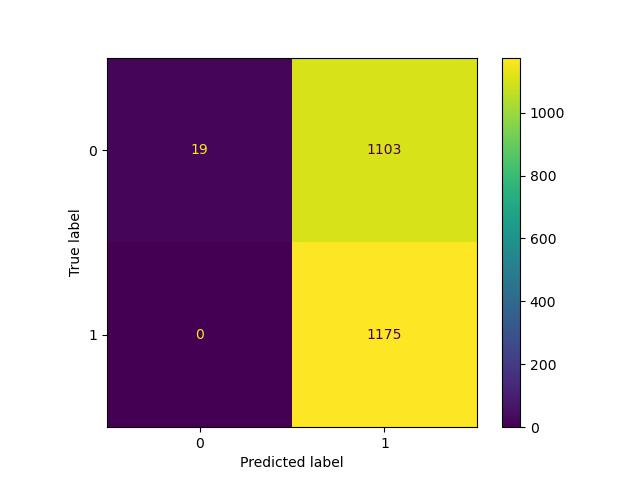
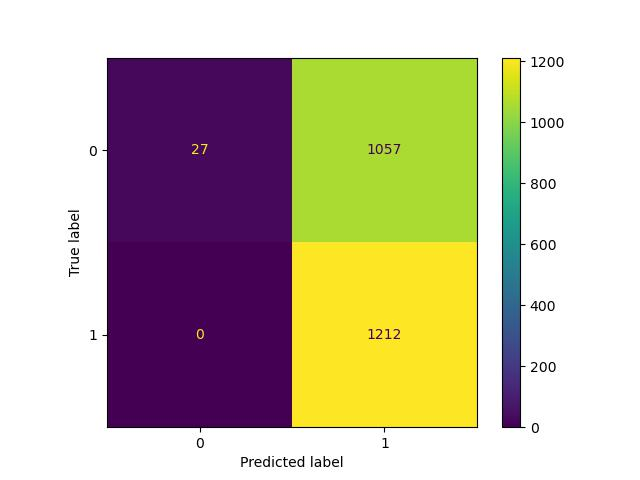
Trained

diff --git a/stock_utils/stock_utils.py b/stock_utils/stock_utils.py
@@ -94,12 +94,12 @@ def get_stock_price_realtime(ticker, start_date = None, end_date = None, n = 10)
     #only market cap > 10 billion will be considered
     if(pd_stock['marketCap'][0] > 1e10):
         stock = yf.Ticker(ticker)
-        today = datetime.now()
+        today = datetime.today().date()
         if start_date:
             hist = stock.history(start = start_date, end = end_date + timedelta(days = 1))
         else:
-            end = today
-            start = today - timedelta(days = 50)
+            end = today - timedelta(days = 1)
+            start = today - timedelta(days = 100)
             hist = stock.history(start = start, end = end  + timedelta(days = 1))
         
         ## Massage the data            
@@ -111,8 +111,8 @@ def get_stock_price_realtime(ticker, start_date = None, end_date = None, n = 10)
             'Dividends': 0, \
             'Stock Splits': 0
             }        
-        today_series = pd.Series(today_data, name=today)
-        hist.append(today_series)
+        today_series = pd.Series(today_data, name=pd.to_datetime(today))
+        hist = hist.append(today_series)
         hist['normalized_value'] = hist.apply(lambda x: normalixed_value(x['High'], x['Low'], x['Close']), axis = 1)
         hist['loc_min'] = hist.iloc[argrelextrema(hist['Close'].values, np.less_equal, order = n)[0]]['Close']
         hist['loc_max'] = hist.iloc[argrelextrema(hist['Close'].values, np.greater_equal, order =n)[0]]['Close']
@@ -147,7 +147,8 @@ def create_train_data(ticker, start_date = None, end_date = None, n = 10, \
 
     return _data_.dropna(axis = 0)
 
-def create_test_data_lr(ticker, start_date = None, end_date = None, n = 10):
+def create_test_data_lr(ticker, start_date = None, end_date = None, n = 10, cols = ['Close', 'Volume', 'normalized_value', '3_reg', '5_reg', '10_reg', '20_reg', '50_reg', '100_reg']
+    ):
     #get data to a dataframe
     data, _, _ = get_stock_price_history(ticker, start_date, end_date, n)
     idxs = np.arange(0, len(data))
@@ -160,14 +161,14 @@ def create_test_data_lr(ticker, start_date = None, end_date = None, n = 10):
     data = n_day_regression(50, data, idxs)
     data = n_day_regression(100, data, idxs)
 
-    cols = ['Close', 'Volume', 'normalized_value', '3_reg', '5_reg', '10_reg', '20_reg', '50_reg', '100_reg']
     data = data[cols]
 
     return data.dropna(axis = 0)
 
-def create_realtime_data_lr(ticker, n = 10):
+def create_realtime_data_lr(ticker, start_date, end_date, n = 10, cols = ['Close', 'Volume', 'normalized_value', '3_reg', '5_reg', '10_reg', '20_reg', '50_reg', '100_reg']
+    ):
     #get data to a dataframe
-    data, _, _ = get_stock_price_realtime(ticker)
+    data, _, _ = get_stock_price_realtime(ticker, start_date=start_date, end_date=end_date)
     idxs = np.arange(0, len(data))
 
     #create regressions for 3, 5, 10 and 20 days
@@ -178,7 +179,6 @@ def create_realtime_data_lr(ticker, n = 10):
     data = n_day_regression(50, data, idxs)
     data = n_day_regression(100, data, idxs)
 
-    cols = ['Close', 'Volume', 'normalized_value', '3_reg', '5_reg', '10_reg', '20_reg', '50_reg', '100_reg']
     data = data[cols]
 
     return data.dropna(axis = 0)

diff --git a/models/lr_inference.py b/models/lr_inference.py
@@ -2,7 +2,7 @@ import numpy as np
 import pickle
 from sklearn.linear_model import LogisticRegression
 from stock_utils.stock_utils import timestamp, create_train_data, get_stock_price_history, create_test_data_lr, create_realtime_data_lr, get_stock_price
-from datetime import timedelta
+from datetime import timedelta, datetime
 import time
 import os
 
@@ -31,28 +31,38 @@ def _threshold(probs, threshold):
 
     return np.array(prob_thresholded)
 
-def LR_predict(model_version, stock, start_date, end_date, threshold = 0.98, data_type='realtime', hold_till = 21):
+def LR_predict(model_version, stock, start_date, end_date, threshold = 0.98, data_type='realtime', hold_till = 10):
     #create model and scaler instances
-    scaler = load_scaler(model_version)
+    scaler = load_scaler(model_version) 
     lr = load_LR(model_version)
+
+    #Interested cols
+    if model_version == 'v1':
+        interested_cols = ['Close', 'Volume', 'normalized_value', '3_reg', '5_reg', '10_reg', '20_reg', '50_reg', '100_reg']
+    elif model_version == 'v2':
+        interested_cols = ['Close', 'Volume', 'normalized_value', '3_reg', '5_reg', '10_reg', '20_reg']
+    else: 
+        interested_cols = ['Close', 'Volume', 'normalized_value', '3_reg', '5_reg', '10_reg', '20_reg', '50_reg', '100_reg']
 
     #create input
     if(data_type == 'realtime'):
-        data = create_realtime_data_lr(stock, n = hold_till)
+        today = datetime.today().date()
+        if model_version == "v1":
+            end = today - timedelta(days = 1)
+            start = today - timedelta(days = 200)
+        elif model_version == "v2":
+            end = today - timedelta(days = 1)
+            start = today - timedelta(days = 100)
+        data = create_realtime_data_lr(stock, start, end, n = hold_till, cols = interested_cols)
     else:
-        data = create_test_data_lr(stock, start_date, end_date, n = hold_till)
+        data = create_test_data_lr(stock, start_date, end_date, n = hold_till, cols = interested_cols )
 
     #get close price of final date
     close_price = data['Close'].values[-1]
 
     #get input data to model
-    if model_version == 'v1':
-        input_data = data[['Volume', 'normalized_value', '3_reg', '5_reg', '10_reg', '20_reg', '50_reg', '100_reg']]
-    elif model_version == 'v2':
-        input_data = data[['Volume', 'normalized_value', '3_reg', '5_reg', '10_reg', '20_reg']]
-    else: 
-        input_data = data[['Volume', 'normalized_value', '3_reg', '5_reg', '10_reg', '20_reg']]
-
+    interested_cols.remove('Close')
+    input_data = data[interested_cols]
     input_data = input_data.to_numpy()[-1].reshape(1, -1)
 
     #scale input data

diff --git a/stockfinder.py b/stockfinder.py
@@ -29,11 +29,12 @@ class stockfinder:
         model_recommended_stocks = {}
         for stock in self.stocks:
             try:
-                prediction, prediction_thresholded, current_price = self.model(self.model_version, stock, '', '', self.threshold, data_type="realtime")
+                prediction, prediction_thresholded, current_price = self.model(self.model_version, stock, '', '', self.threshold, data_type="realtime", hold_till = self.hold_till)
 
                 if prediction_thresholded < 1:
                     model_recommended_stocks[stock] = (prediction, prediction_thresholded, current_price)
-            except:
+            except Exception as err:
+                print(err)
                 pass   
         def take_first(elem):
             return elem[1]  
@@ -95,7 +96,7 @@ if __name__ == "__main__":
     stocks = list(np.unique(stocks)) 
 
     
-    stockfinder(stocks, LR_predict, 'v1', threshold = 0.5, sell_perc = 0.1, hold_till= 10, stop_perc = 0.05, no_of_recommendations = 3).scan()
-    stockfinder(stocks, LR_predict, 'v2', threshold = 0.5, sell_perc = 0.1, hold_till= 10, stop_perc = 0.05, no_of_recommendations = 3).scan()
+    stockfinder(stocks, LR_predict, 'v1', threshold = 0.95, sell_perc = 0.1, hold_till= 10, stop_perc = 0.05, no_of_recommendations = 3).scan()
+    stockfinder(stocks, LR_predict, 'v2', threshold = 0.95, sell_perc = 0.1, hold_till= 10, stop_perc = 0.05, no_of_recommendations = 3).scan()
 
 

diff --git a/models/lr_run_training.py b/models/lr_run_training.py
@@ -81,7 +81,7 @@ class LR_training:
 
         # Alert telegram that the model has been trained
         t = telegram()
-        t.send_message(f'LR_{self.model_version} has been trained on {datetime.now()} with score = {self.score}')
+        t.send_message(f'LR_{self.model_version} has been trained at {datetime.now().strftime("%H:%M:%S")} with score = {self.score}')
 
 
     def fetch_data(self, start_date, end_date, n, cols_of_interest):
